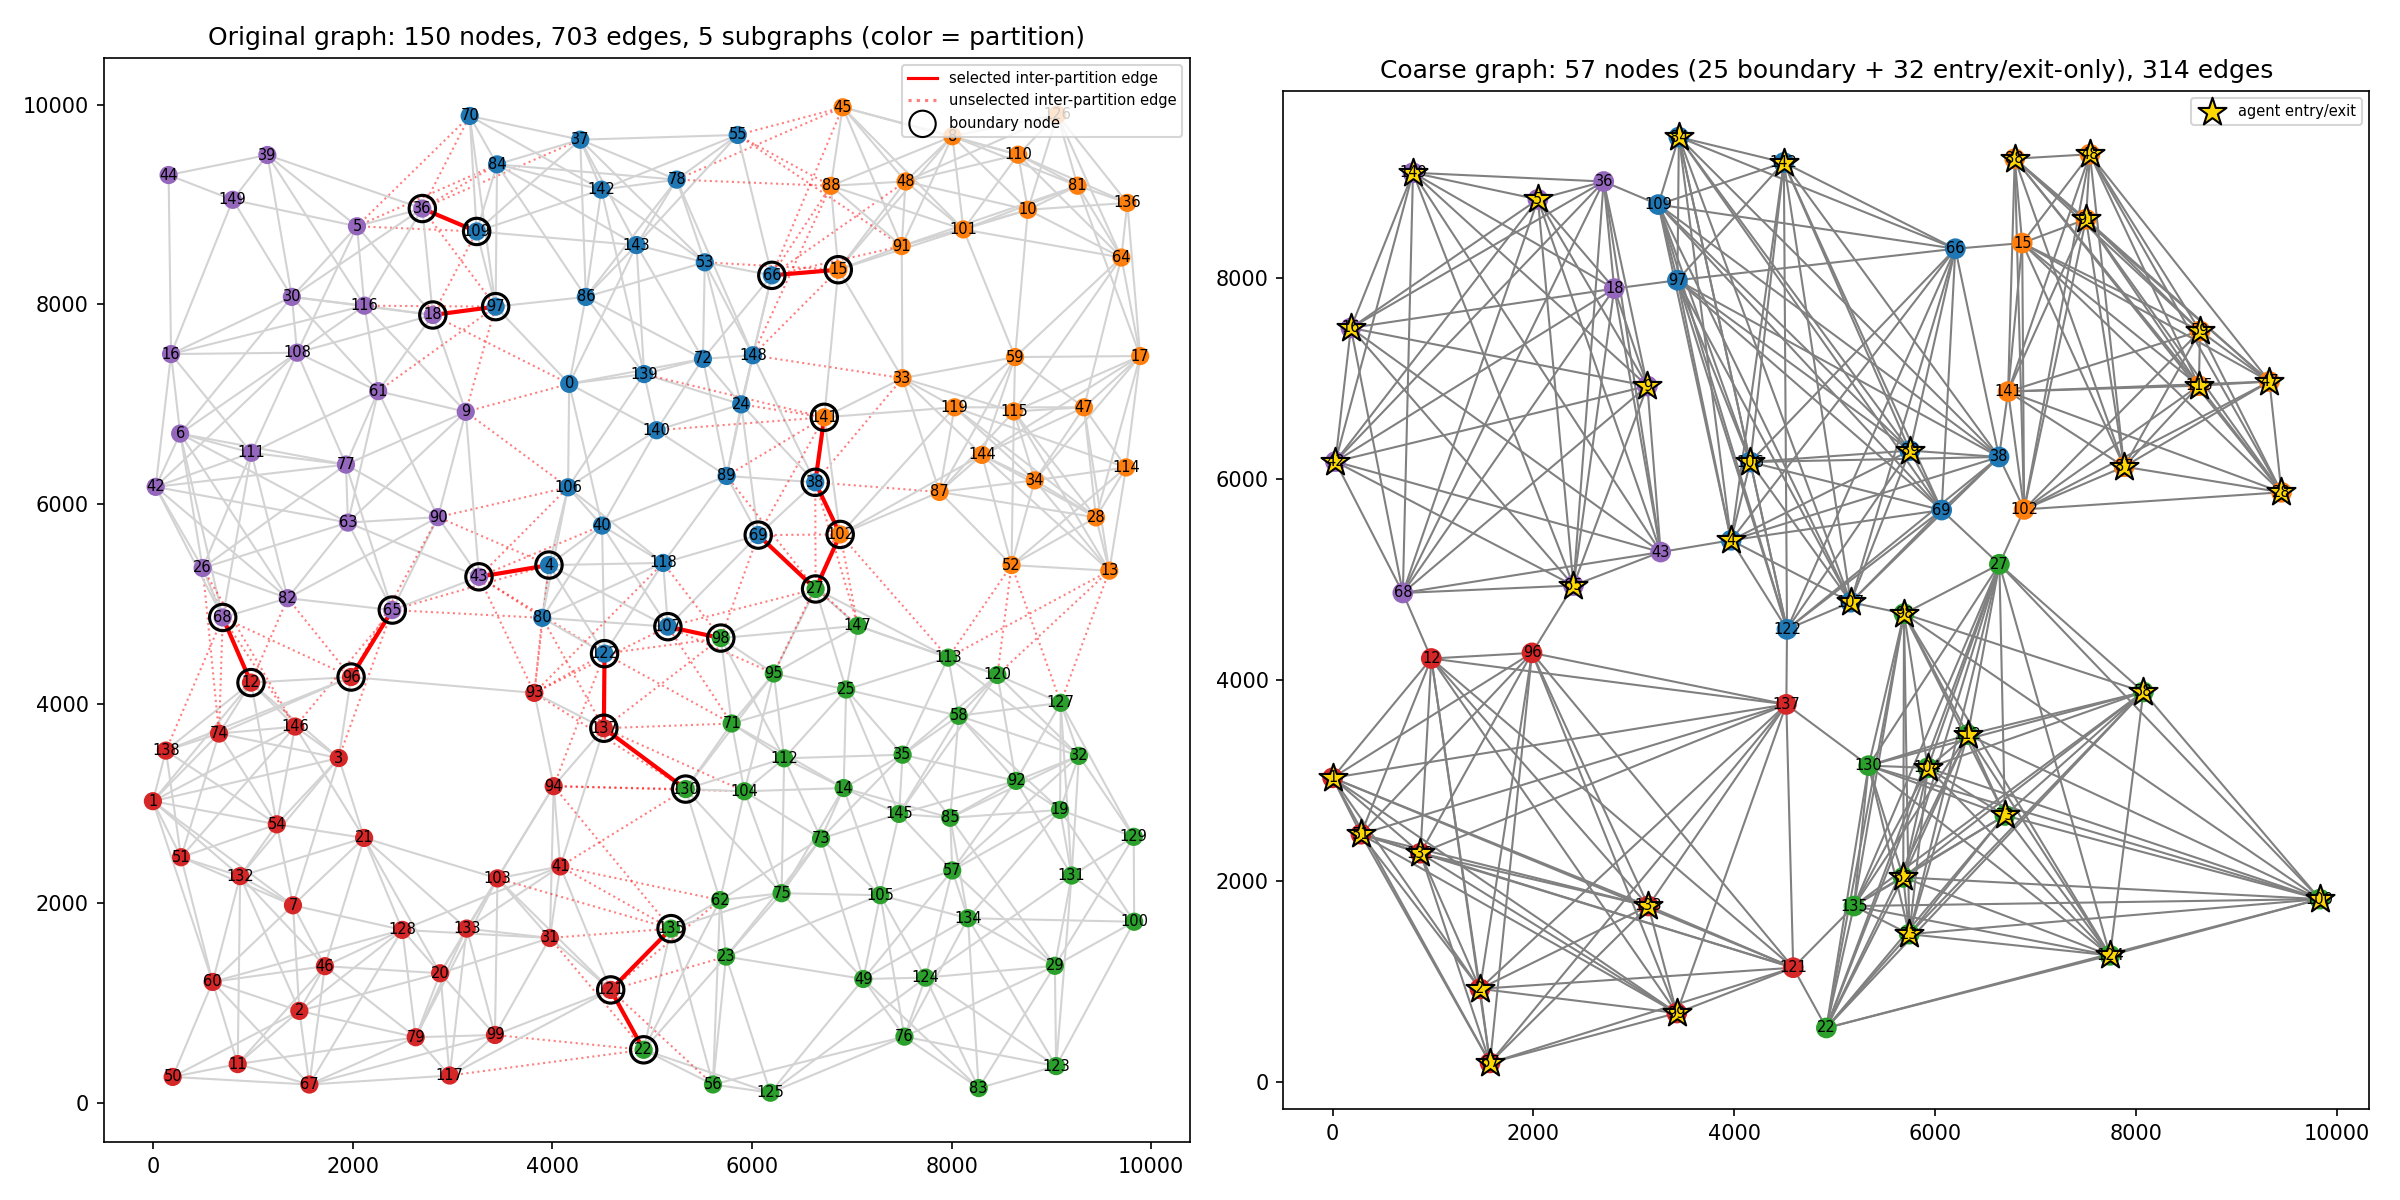
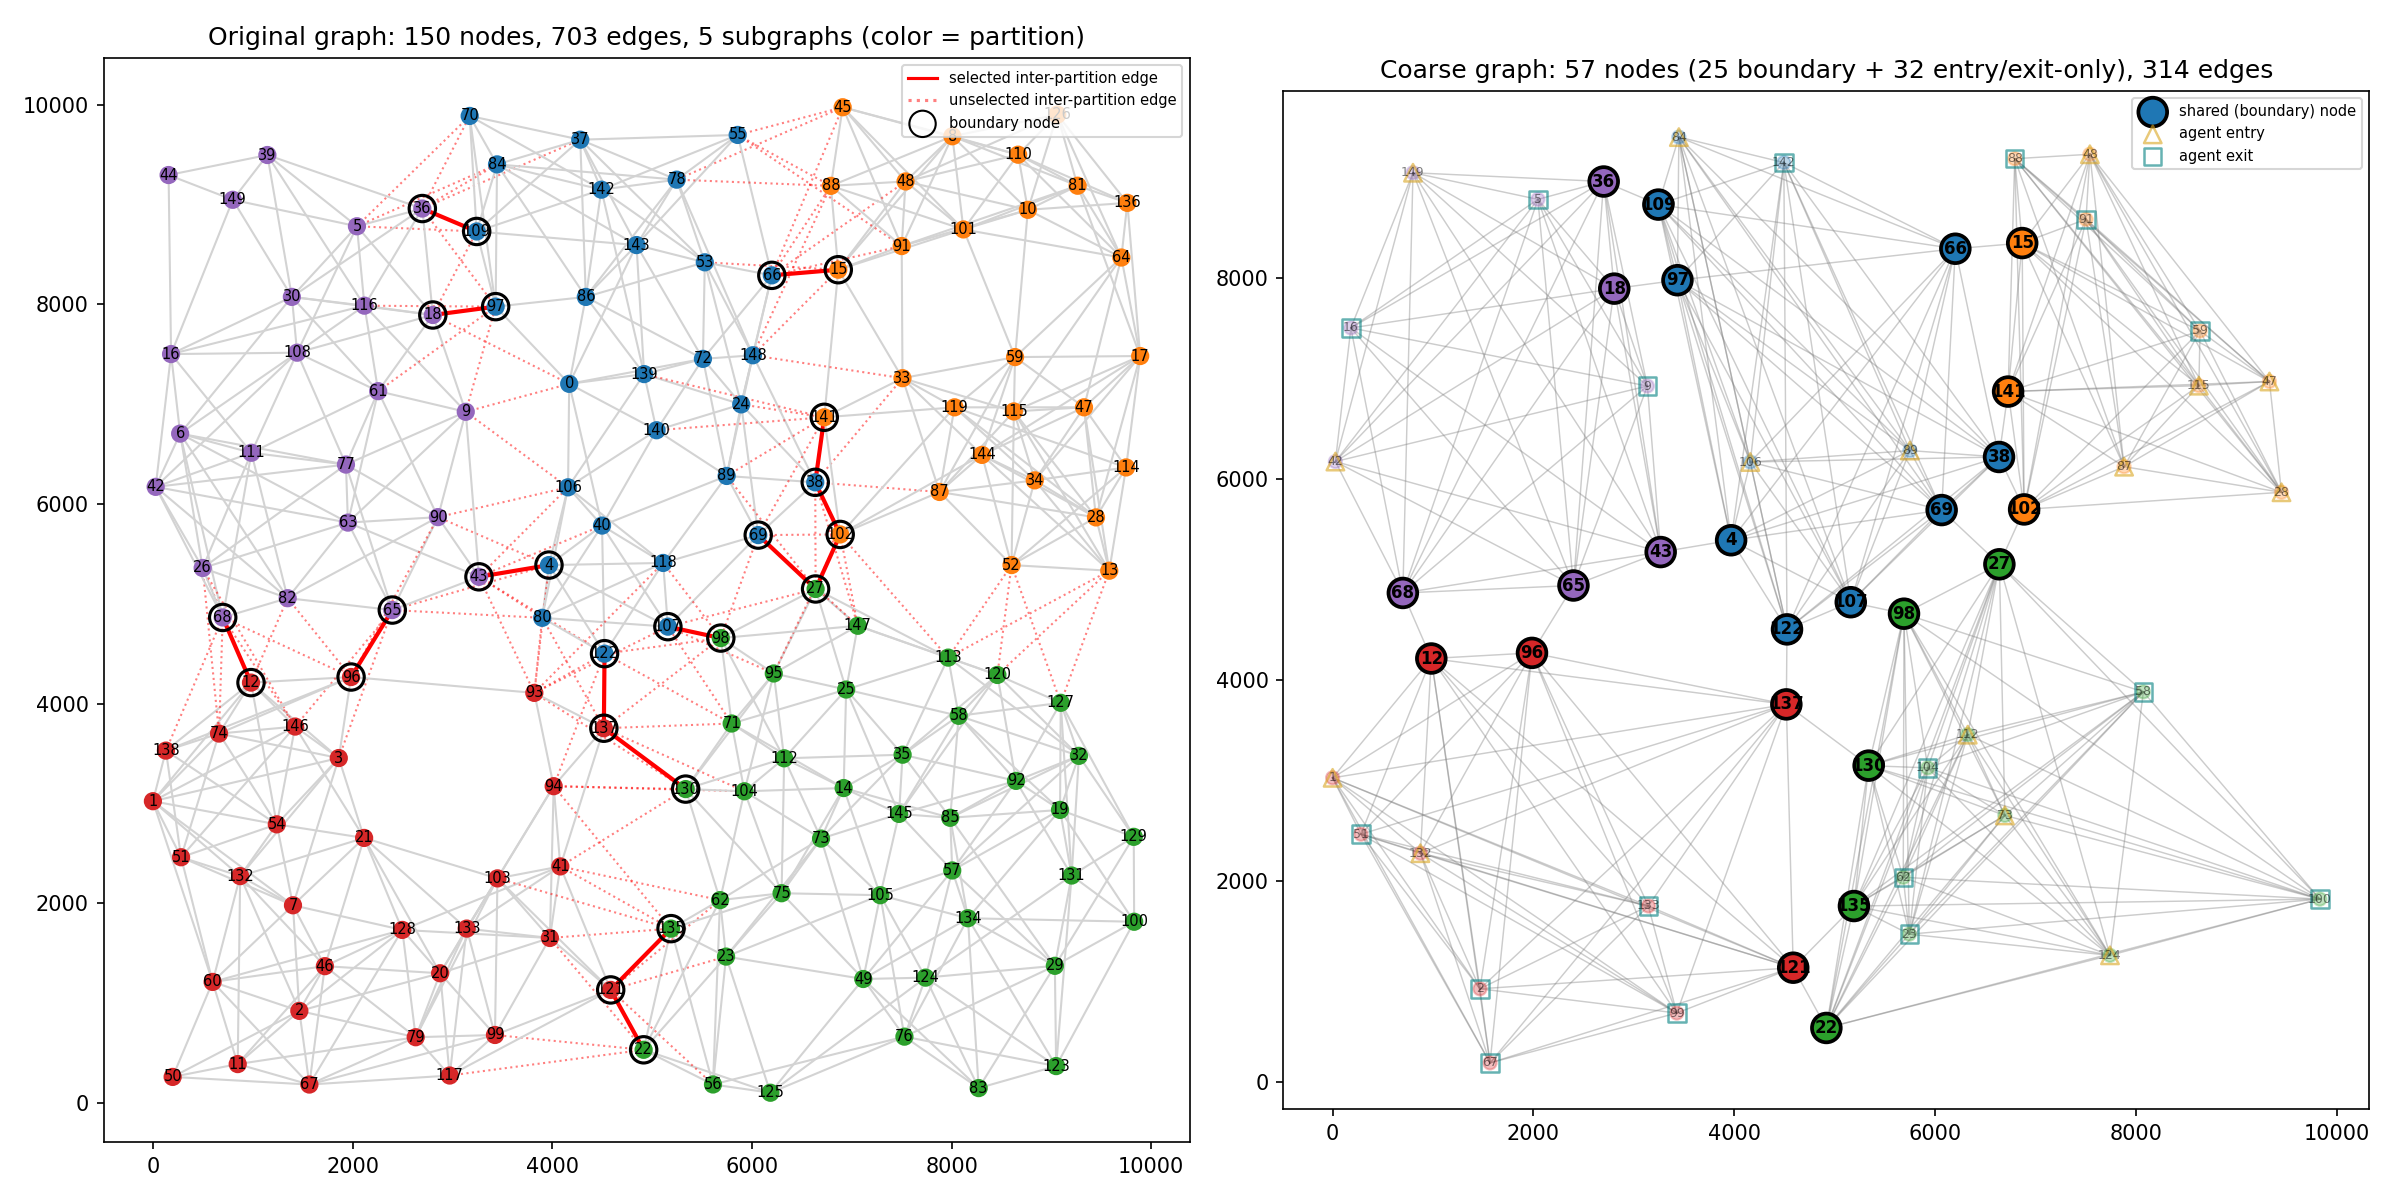
boundary node mismatch identified

Changed region(s): [[0.5312, 0.0617, 0.9688, 0.8942]]

diff --git a/dist_UTM_scheduling_and_routing/visualization.py b/dist_UTM_scheduling_and_routing/visualization.py
@@ -35,14 +35,27 @@ def plot_coarse(ax, h):
     loc, mask = h.coarse_wp_locations, h.coarse_mask > 0
     cmap = plt.get_cmap("tab10")
     for a, b in zip(*np.where(np.triu(mask, 1))):
-        ax.plot(*zip(loc[a], loc[b]), color="gray", lw=1, zorder=1)
+        ax.plot(*zip(loc[a], loc[b]), color="gray", lw=0.7, alpha=0.4, zorder=1)
     colors = [cmap(h.partition[f] % 10) for f in h.coarse_nodes]
-    ax.scatter(*loc.T, c=colors, s=80, zorder=2)
-    agent_nodes = set(h.coarse_sd_mat.ravel().tolist())
-    ax.scatter(*loc[sorted(agent_nodes)].T, marker="*", s=200, c="gold", edgecolors="k", zorder=3,
-               label="agent entry/exit")
+    shared = np.unique(h.shared_nodes)
+    other = np.setdiff1d(np.arange(len(loc)), shared)
+
+    # entry/exit-only nodes are faint; shared (boundary) nodes are large, opaque and outlined
+    ax.scatter(*loc[other].T, c=[colors[i] for i in other], s=40, alpha=0.3, zorder=2)
+    ax.scatter(*loc[shared].T, c=[colors[i] for i in shared], s=190, edgecolors="k",
+               linewidths=1.8, zorder=4, label="shared (boundary) node")
+
+    starts = sorted(set(h.coarse_sd_mat[:, 0].tolist()))
+    exits = sorted(set(h.coarse_sd_mat[:, 1].tolist()))
+    ax.scatter(*loc[starts].T, marker="^", s=70, c="none", edgecolors="goldenrod",
+               linewidths=1.2, alpha=0.6, zorder=3, label="agent entry")
+    ax.scatter(*loc[exits].T, marker="s", s=70, c="none", edgecolors="teal",
+               linewidths=1.2, alpha=0.6, zorder=3, label="agent exit")
     for c, f in enumerate(h.coarse_nodes):
-        ax.annotate(str(f), loc[c], fontsize=7, ha="center", va="center", zorder=4)
+        is_shared = c in shared
+        ax.annotate(str(f), loc[c], fontsize=8 if is_shared else 6, ha="center", va="center",
+                    fontweight="bold" if is_shared else "normal",
+                    alpha=1.0 if is_shared else 0.5, zorder=5)
     n_boundary, n_entry_exit, n_total = h.coarse_node_counts()
     ax.set_title(
         f"Coarse graph: {n_total} nodes ({n_boundary} boundary + {n_entry_exit} entry/exit-only), "

diff --git a/dist_UTM_scheduling_and_routing/MIRS_coarse.py b/dist_UTM_scheduling_and_routing/MIRS_coarse.py
@@ -22,7 +22,7 @@ class MIRS_coarse:
         ca_cbf=None,
         filter_wp_thresh=0.0,
         prune_mode=False,
-        printFlag=False,
+        printFlag=True,
         T_upper_bound=10000,
     ):
         self.INF = 1e8
@@ -106,8 +106,10 @@ class MIRS_coarse:
         for i in range(self.n_agents):
             graph = self.coarse_graph.agent_graph(i)
             start_wp = int(self.sd_mat[i, 0])
+            print(f"agent {i}: shared_nodes: {len(self.coarse_graph.shared_nodes)}")
             stage_nodes = np.append(self.coarse_graph.shared_nodes, self.coarse_graph.coarse_sd_mat[i, 1])
             stage_waypoints = self.coarse_graph.coarse_nodes[stage_nodes]
+            # print(f"agent {i}: stage_nodes={len(stage_nodes)}, stage_waypoints={len(stage_waypoints)}")
             sched_indices = np.append(start_wp, stage_waypoints)
             self.agent_stage_waypoints.append(stage_waypoints)
             self.agent_sched_indices.append(sched_indices)

diff --git a/dist_UTM_scheduling_and_routing/dist_MIRS.py b/dist_UTM_scheduling_and_routing/dist_MIRS.py
@@ -58,8 +58,9 @@ class heir_MIRS:
         dist = self.dist_mat
         part = self.partition
         selected = {(min(i, j), max(i, j)) for i, j in self.selected_edges}
-
+        
         self.coarse_nodes = np.unique(np.concatenate([self.sd_mat.ravel(), self.boundary_nodes()]))
+        print(f"boundary nodes: {self.boundary_nodes()}")
         n = len(self.coarse_nodes)
         self.fine_to_coarse = {int(f): c for c, f in enumerate(self.coarse_nodes)}
 
